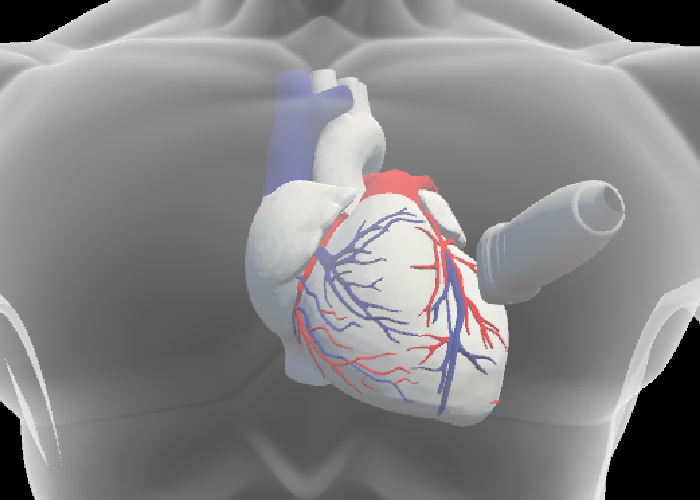
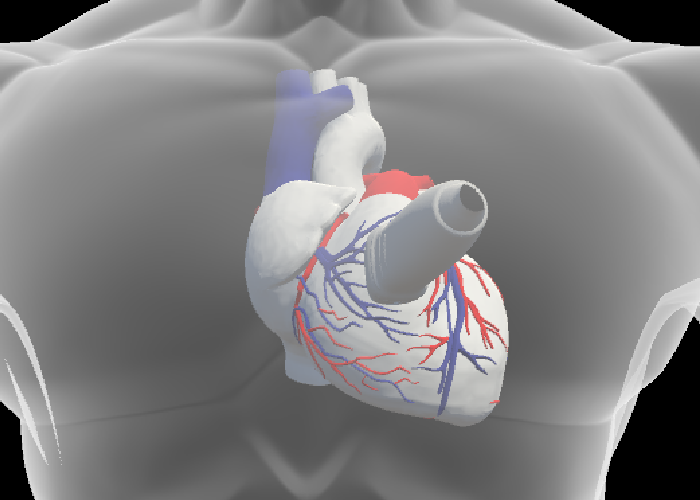
add four dir

Changed region(s): [[0.51, 0.36, 0.9, 0.63]]

diff --git a/static/js/a.js b/static/js/a.js
@@ -271,13 +271,21 @@ $(document).ready(function(){
             method:"GET",
             success: function(response){
                 // console.log("score is "+ response);
-                if(response=="hold"){
-                    $("#arrow_3d").attr("src",`static/3d_arrow/x-.png`);
-                }
-                else{
-                    $("#arrow_3d").attr("src",`static/3d_arrow/${response}mv.png`);
-                }
-                
+                $("#x0").attr("src",`static/3d_arrow/x-.png`);
+                $("#x1").attr("src",`static/3d_arrow/x+.png`);
+                $("#y0").attr("src",`static/3d_arrow/y-.png`);
+                $("#y1").attr("src",`static/3d_arrow/y+.png`);
+                if(response!="hold"){
+                    console.log(response[1],response);
+                    let id = "";
+                    if(response[1]=="+"){
+                        id=response[0]+1;
+                    }
+                    else{
+                        id=response[0]+0;
+                    }
+                    $(`#${id}`).attr("src",`static/3d_arrow/${response}mv.png`);
+                }     
             }
         });
     },3000);
@@ -292,15 +300,30 @@ $(document).ready(function(){
             "top":vtop,
             "height":`${height}px`
         })
-        vleft += $(".camera").width()*0.15;
-        vtop  += $(".camera").height()*0.14;
+        w = $(".camera").width();
+        h = $(".camera").height();
         height = $(".camera").height()*0.04;
-        console.log(vleft,vtop);
-        $("#arrow_3d").css({
-            "left":vleft,
-            "top":vtop,
+        // console.log(vleft,vtop);
+        $("#x0").css({
+            "left":vleft+w*0.07,
+            "top":vtop+h*0.14,
             "height":`${height}px`
-        })
+        });
+        $("#x1").css({
+            "left":vleft+w*0.23,
+            "top":vtop+h*0.14,
+            "height":`${height}px`
+        });
+        $("#y0").css({
+            "left":vleft+w*0.165,
+            "top":vtop+h*0.20,
+            "width":`${height}px`
+        });
+        $("#y1").css({
+            "left":vleft+w*0.165,
+            "top":vtop+h*0.04,
+            "width":`${height}px`
+        });
     });
 
 

diff --git a/templates/index.html b/templates/index.html
@@ -37,7 +37,10 @@
                     <!--<h class = "header">Live Streaming</h>
                     <br>-->
                     <div style="position:relative;">
-                        <img id="arrow_3d"src="{{url_for('static',filename='3d_arrow/x-.png')}}">
+                        <img class="arrow_3d" id="x0" src="{{url_for('static',filename='3d_arrow/x-.png')}}">
+                        <img class="arrow_3d" id="x1" src="{{url_for('static',filename='3d_arrow/x+.png')}}">
+                        <img class="arrow_3d" id="y0" src="{{url_for('static',filename='3d_arrow/y-.png')}}">
+                        <img class="arrow_3d" id="y1" src="{{url_for('static',filename='3d_arrow/y+.png')}}">
                         <img id = "camera_id"class = "camera" src="{{ url_for('video_feed') }}">
                         <img class="gif"src="{{url_for('static',filename='3d_img/hold.png')}}">
                     </div>

diff --git a/static/css/style.css b/static/css/style.css
@@ -147,12 +147,10 @@ img{
     align-items: center;
 }
 
-#arrow_3d{
+.arrow_3d{
     position: absolute;
-    /* top: 17%;
-    left: 22%;
-    height: 4%; */
     z-index: 6;
+    left: 0px;
 }
 
 .gif{

diff --git a/app.py b/app.py
@@ -28,7 +28,7 @@ args = parser.parse_args()
 def sim_pred():
     global mv_pred
     # mvs = ["hold","x+","x-","z+","z-","y-","y+","z_c","z_a","y_c","y_a","x_a","x_c"]
-    mvs = ["x-","hold"]
+    mvs = ["x-","x+","y-","y+","hold"]
     while True:
         i = random.randint(0, len(mvs) - 1)
         with threading.Lock():
@@ -109,6 +109,7 @@ def gen_frames():  # generate frame by frame from camera
             max_frame += 1
             ret, buffer = cv2.imencode('.jpg', frame)
             frame = buffer.tobytes()
+            time.sleep(0.05);
             yield (b'--frame\r\n'
                    b'Content-Type: image/jpeg\r\n\r\n' + frame + b'\r\n')  # concat frame one by one and show result
 
